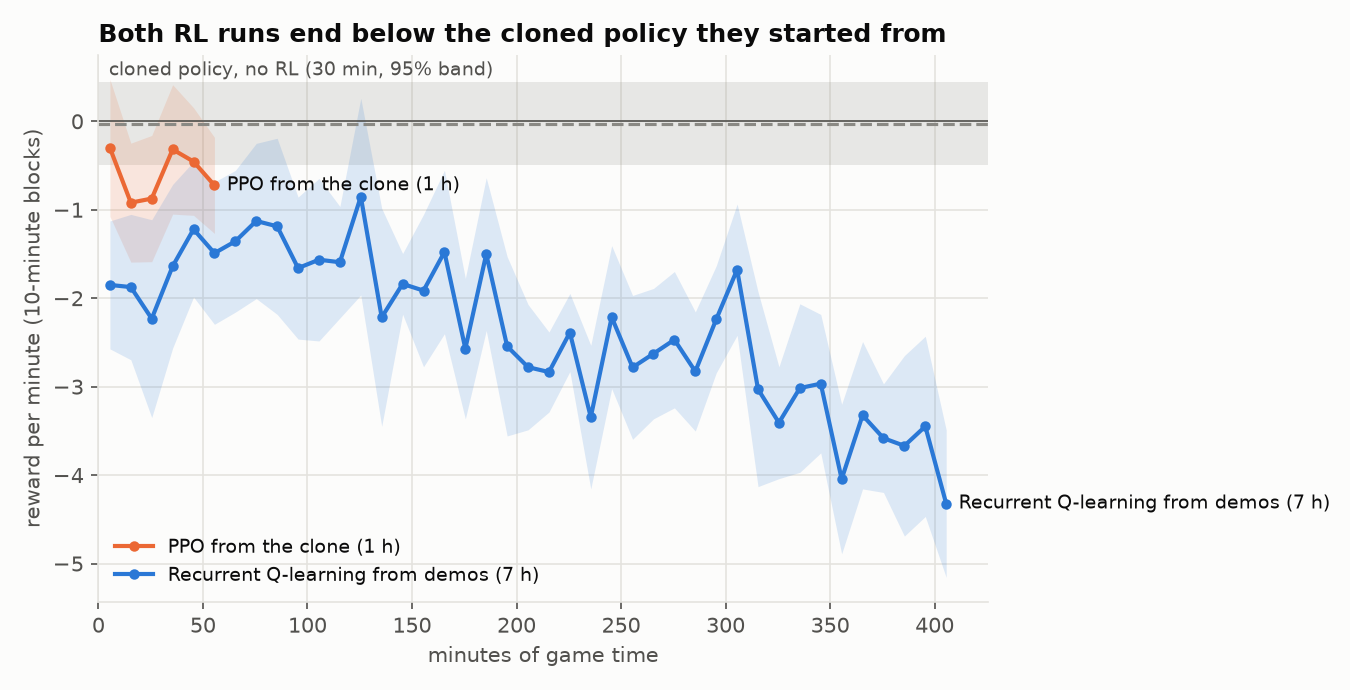
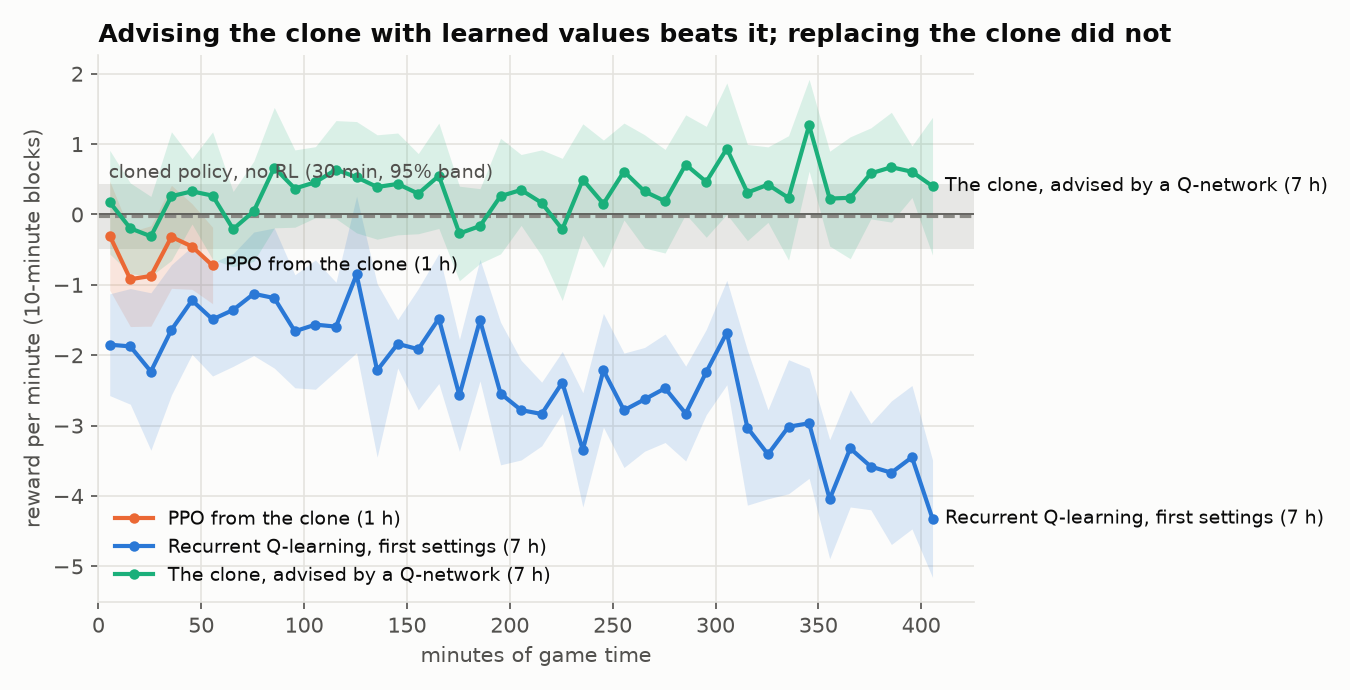
docs: the advised clone beats the clone (+0.38 against -0.11 reward per minute); a second night prepared
scripts/play.py plays the advised clone for evaluation. configs/experiments/advised_medium_night2.yaml continues from the night's Q-network with beta 15.

diff --git a/scripts/play.py b/scripts/play.py
@@ -184,6 +184,10 @@ def main(argv=None) -> int:
     p.add_argument("--regime", choices=("realtime", "stepped"), default="realtime")
     p.add_argument("--k", type=int, default=3)
     p.add_argument("--greedy", action="store_true", help="take the most likely action instead of sampling")
+    p.add_argument("--prior", type=Path, default=None,
+                   help="with a qnet.pt: sample from this cloned policy.zip, shifted by the Q-network's advantages")
+    p.add_argument("--beta", type=float, default=10.0, help="with --prior: strength of the shift")
+    p.add_argument("--adv-clip", type=float, default=0.1, help="with --prior: advantages clipped to this")
     p.add_argument("--detector", type=Path, default=DETECTOR)
     p.add_argument("--name", default=None, help="report name (default: policy folder, level and regime)")
     p.add_argument("--countdown", type=int, default=5)
@@ -213,6 +217,10 @@ def main(argv=None) -> int:
         from brawl.rdqn import Greedy
 
         greedy = Greedy(Path(args.policy), epsilon=0.0, seed=args.seed)
+        if args.prior:  # the clone, advised by this Q-network, as the live run played it
+            from brawl.rdqn import Advised
+
+            greedy = Advised(Path(args.policy), args.prior, args.beta, args.adv_clip, seed=args.seed)
     policy = None if args.policy in ("random", "scripted") or greedy else learn.load_policy(Path(args.policy), "cpu")
     perception = Perception(Yolo(args.detector, conf=0.05), step=args.k)
     screen = capture.Screen(timeout_s=0.05)

diff --git a/brawl/rdqn.py b/brawl/rdqn.py
@@ -111,6 +111,33 @@ class Greedy:
         return split(int(q[0, 0].argmax()))
 
 
+class Advised:
+    """The clone, its odds shifted by a Q-network's advantages: logits + beta * clip(Q - E_clone[Q]), as the
+    live run plays it (brawl/learn.py train_rdqn with ``prior``). Sampled; memory carried along."""
+
+    def __init__(self, qnet: Path, prior: Path, beta: float, clip: float, seed: int = 0) -> None:
+        import torch
+
+        from brawl.learn import load_policy
+
+        torch.manual_seed(seed)
+        self.torch, self.net, self.prior, self.h = torch, load(qnet)[0].eval(), load_policy(Path(prior)), None
+        self.beta, self.clip = beta, clip
+
+    def reset(self) -> None:
+        self.h = None
+
+    def __call__(self, obs: np.ndarray) -> tuple[int, int]:
+        torch = self.torch
+        with torch.no_grad():
+            x = torch.as_tensor(obs, dtype=torch.float32)
+            q, self.h = self.net(x[None, None], self.h)
+            d = self.prior.get_distribution(x[None]).distribution
+            logp = (d[0].logits[0][:, None] + d[1].logits[0][None, :]).reshape(-1)
+            adv = (q[0, 0] - (logp.exp() * q[0, 0]).sum()).clamp(-self.clip, self.clip)
+            return split(int(torch.distributions.Categorical(logits=logp + self.beta * adv).sample()))
+
+
 class Replay:
     """A stream of decisions sampled as sequences that never cross a cut (the start of a session, or
     a gap in the live run). Observations are kept in float16: 224 bytes a decision."""

diff --git a/scripts/plot_results.py b/scripts/plot_results.py
@@ -69,7 +69,7 @@ def clone_floor() -> tuple[float, float]:
 
 RUNS_SHOWN = [("PPO from the clone (1 h)", RUNS / "s1_ppo" / "realtime-bc" / "seed0" / "progress.csv", ORANGE),
               ("Recurrent Q-learning, first settings (7 h)", RUNS / "rdqn_medium" / "default" / "seed0" / "progress.csv", BLUE),
-              ("Recurrent Q-learning, tested settings", RUNS / "rdqn_medium_v2" / "default" / "seed0" / "progress.csv", AQUA)]
+              ("The clone, advised by a Q-network (7 h)", RUNS / "rdqn_medium_v3" / "default" / "seed0" / "progress.csv", AQUA)]
 
 
 def rl_runs(plt) -> Path:
@@ -89,7 +89,7 @@ def rl_runs(plt) -> Path:
         ax.annotate(label, (t[-1], m[-1]), xytext=(6, 0), textcoords="offset points", color=INK, fontsize=9, va="center")
     ax.set_xlabel("minutes of game time")
     ax.set_ylabel("reward per minute (10-minute blocks)")
-    ax.set_title("Both RL runs end below the cloned policy they started from")
+    ax.set_title("Advising the clone with learned values beats it; replacing the clone did not")
     ax.legend(loc="lower left", fontsize=9)
     ax.set_xlim(0, None)
     fig.tight_layout()

diff --git a/research/LAB_NOTEBOOK.md b/research/LAB_NOTEBOOK.md
@@ -1200,3 +1200,35 @@ live decision is written to trace/; the live run keeps best.pt, the weights play
 (results/rdqn/pretrain_v2.md: copying 0.171, right where the human changes action 0.232, buttons 21%
 against the human's 30%, its most used action 46% of decisions). scripts/plot_results.py draws every
 figure from the run files.
+
+## 2026-11-14/15: the greedy Q-network stands still; the advised clone beats the clone
+
+**Exploration and the greedy player.** In the 5-minute run with the second network, uniform random
+actions at 5% of decisions threw the weapon 18 times a minute (the human 7) and the agent was armed 47%
+of the time (the human 90%). With exploration off, the greedy network stood still: trained to rank the
+human's action first, its best action is the most common one, no button (70% of the human's
+decisions), and standing still leads to states where it stays best. The Q-network alone is the wrong
+player.
+
+**The advised clone** (configs/experiments/rdqn_medium_v3.yaml). The agent samples from the clone
+(medium_v4), its logits shifted by beta * clip(Q - E_clone[Q], 0.1); the Q-network evaluates the play
+it sees (sarsa: no max, no inflation), pretrained without the margin loss. Advantages on human play are
+small (median |A| 0.04, 90th percentile 0.12): beta 5 would have moved the clone's most likely action in
+2.7% of decisions, beta 10 moves it in 5%, with an action's odds changed at most 2.7-fold. The first 30
+minutes are the pure clone, the run's own baseline; beta then ramps over 30 minutes.
+
+**Night of 2026-11-14** (7 h, results/rdqn_medium_v3/summary.md, results/figures/rl_runs.png):
+
+| | Reward per minute | Stocks taken / lost per minute | Falls per minute | Damage dealt / taken per minute |
+|---|---|---|---|---|
+| Clone only (first 30 min) | -0.11 +- 0.19 | 0.53 / 0.57 | 0.27 | 108 / 116 |
+| Advised (beta 10, 357 min) | +0.38 +- 0.06 | 0.66 / 0.57 | 0.15 | 134 / 104 |
+
+Difference +0.49, 2.5 standard errors; Mann-Whitney over minutes p = 0.016. The clone measured on
+2026-11-12: -0.03 +- 0.24. Stocks 270 - 236 over the night: the first run that takes more stocks than it
+loses. By part of the night: +0.32, +0.28, +0.56 (last two hours). The values stayed honest (gap on live
+play between -0.05 and +0.14, no trend); no rollback; 0.29% of decisions over the time budget.
+
+Caveats: one seed; the in-run baseline is 30 minutes (standard error 0.19). A paired evaluation of the
+frozen advised policy against the clone in one session is the next measurement. scripts/play.py now
+plays the advised clone (--prior, --beta, --adv-clip).

diff --git a/results/rdqn_medium_v3/summary.md b/results/rdqn_medium_v3/summary.md
@@ -1,0 +1,56 @@
+# rdqn_medium_v3: summary
+
+2026-11-15 07:03. Reward per minute of game time in blocks of 10 rollouts (mean ± standard error over the block's rollouts). scripts/analyze.py.
+
+## default / seed0
+
+416 rollouts, 416 minutes of game time. Stocks 270 - 236; damage 54654 / 43784.
+
+| Block (minutes) | Reward per minute | Net stocks per minute |
+|---|---|---|
+| 0-10 | +0.18 ± 0.38 | +0.10 |
+| 10-20 | -0.20 ± 0.33 | -0.10 |
+| 20-30 | -0.31 ± 0.29 | -0.10 |
+| 30-40 | +0.26 ± 0.47 | +0.10 |
+| 40-50 | +0.33 ± 0.24 | +0.10 |
+| 50-60 | +0.27 ± 0.46 | +0.10 |
+| 60-70 | -0.21 ± 0.27 | -0.30 |
+| 70-80 | +0.04 ± 0.36 | +0.10 |
+| 80-90 | +0.67 ± 0.44 | +0.20 |
+| 90-100 | +0.37 ± 0.28 | +0.10 |
+| 100-110 | +0.46 ± 0.26 | +0.10 |
+| 110-120 | +0.64 ± 0.36 | +0.20 |
+| 120-130 | +0.53 ± 0.40 | +0.10 |
+| 130-140 | +0.39 ± 0.38 | +0.10 |
+| 140-150 | +0.43 ± 0.37 | +0.20 |
+| 150-160 | +0.30 ± 0.29 | +0.00 |
+| 160-170 | +0.55 ± 0.38 | +0.30 |
+| 170-180 | -0.27 ± 0.34 | -0.20 |
+| 180-190 | -0.16 ± 0.27 | -0.20 |
+| 190-200 | +0.26 ± 0.42 | +0.00 |
+| 200-210 | +0.35 ± 0.26 | +0.20 |
+| 210-220 | +0.17 ± 0.38 | -0.10 |
+| 220-230 | -0.21 ± 0.52 | -0.20 |
+| 230-240 | +0.50 ± 0.40 | +0.20 |
+| 240-250 | +0.15 ± 0.46 | +0.00 |
+| 250-260 | +0.61 ± 0.35 | +0.10 |
+| 260-270 | +0.33 ± 0.41 | +0.00 |
+| 270-280 | +0.19 ± 0.38 | +0.10 |
+| 280-290 | +0.71 ± 0.36 | +0.10 |
+| 290-300 | +0.46 ± 0.40 | +0.30 |
+| 300-310 | +0.94 ± 0.48 | +0.30 |
+| 310-320 | +0.31 ± 0.35 | +0.10 |
+| 320-330 | +0.42 ± 0.27 | +0.20 |
+| 330-340 | +0.24 ± 0.45 | +0.00 |
+| 340-350 | +1.27 ± 0.33 | +0.40 |
+| 350-360 | +0.23 ± 0.34 | +0.00 |
+| 360-370 | +0.24 ± 0.44 | +0.00 |
+| 370-380 | +0.58 ± 0.33 | +0.20 |
+| 380-390 | +0.67 ± 0.40 | +0.30 |
+| 390-400 | +0.61 ± 0.19 | +0.20 |
+| 400-410 | +0.40 ± 0.50 | +0.00 |
+
+- Change: +0.23 ± 0.62 from the first block to the last: within 2 standard errors, so not distinguishable from no change.
+- Updates: 0.00 s each (median), 0.00% of the run; during them 0 damage taken and 0 stocks lost.
+- Decisions over the time budget: 0.29%; pauses for lost focus: 0.
+

diff --git a/results/rdqn_medium/summary.md b/results/rdqn_medium/summary.md
@@ -1,0 +1,56 @@
+# rdqn_medium: summary
+
+2026-11-14 09:05. Reward per minute of game time in blocks of 10 rollouts (mean ± standard error over the block's rollouts). scripts/analyze.py.
+
+## default / seed0 (stopped before its end)
+
+416 rollouts, 416 minutes of game time. Stocks 102 - 902; damage 19373 / 38502.
+
+| Block (minutes) | Reward per minute | Net stocks per minute |
+|---|---|---|
+| 0-10 | -1.85 ± 0.37 | -1.30 |
+| 10-20 | -1.87 ± 0.42 | -1.40 |
+| 20-30 | -2.23 ± 0.57 | -1.60 |
+| 30-40 | -1.64 ± 0.47 | -1.00 |
+| 40-50 | -1.22 ± 0.39 | -0.90 |
+| 50-60 | -1.49 ± 0.41 | -1.00 |
+| 60-70 | -1.36 ± 0.41 | -0.80 |
+| 70-80 | -1.13 ± 0.45 | -0.80 |
+| 80-90 | -1.19 ± 0.51 | -0.70 |
+| 90-100 | -1.66 ± 0.41 | -1.20 |
+| 100-110 | -1.56 ± 0.47 | -1.30 |
+| 110-120 | -1.59 ± 0.32 | -1.10 |
+| 120-130 | -0.85 ± 0.57 | -0.90 |
+| 130-140 | -2.22 ± 0.63 | -1.80 |
+| 140-150 | -1.84 ± 0.18 | -1.40 |
+| 150-160 | -1.91 ± 0.44 | -1.60 |
+| 160-170 | -1.48 ± 0.47 | -1.10 |
+| 170-180 | -2.57 ± 0.41 | -2.10 |
+| 180-190 | -1.50 ± 0.44 | -1.20 |
+| 190-200 | -2.54 ± 0.52 | -2.10 |
+| 200-210 | -2.78 ± 0.36 | -2.40 |
+| 210-220 | -2.83 ± 0.23 | -2.30 |
+| 220-230 | -2.39 ± 0.23 | -2.00 |
+| 230-240 | -3.34 ± 0.41 | -2.90 |
+| 240-250 | -2.21 ± 0.41 | -1.60 |
+| 250-260 | -2.78 ± 0.41 | -2.20 |
+| 260-270 | -2.63 ± 0.38 | -2.20 |
+| 270-280 | -2.47 ± 0.39 | -1.90 |
+| 280-290 | -2.83 ± 0.34 | -2.00 |
+| 290-300 | -2.24 ± 0.31 | -1.80 |
+| 300-310 | -1.68 ± 0.38 | -1.20 |
+| 310-320 | -3.03 ± 0.56 | -2.50 |
+| 320-330 | -3.41 ± 0.32 | -2.80 |
+| 330-340 | -3.02 ± 0.49 | -2.70 |
+| 340-350 | -2.97 ± 0.40 | -2.30 |
+| 350-360 | -4.04 ± 0.43 | -3.40 |
+| 360-370 | -3.32 ± 0.42 | -3.20 |
+| 370-380 | -3.58 ± 0.31 | -3.00 |
+| 380-390 | -3.67 ± 0.52 | -3.20 |
+| 390-400 | -3.45 ± 0.52 | -3.10 |
+| 400-410 | -4.32 ± 0.43 | -3.90 |
+
+- Change: -2.47 ± 0.56 from the first block to the last: a decline beyond 2 standard errors.
+- Updates: 0.00 s each (median), 0.00% of the run; during them 0 damage taken and 0 stocks lost.
+- Decisions over the time budget: 0.08%; pauses for lost focus: 0.
+

diff --git a/research/CHECKLIST.md b/research/CHECKLIST.md
@@ -16,14 +16,11 @@ pause-and-rewind oracle a learner can close.
 Nothing is trained on a part until that part's gate passes. A wrong input fails every agent
 built on it, and no RL result can show where the fault was.
 
-## Your next steps (2026-11-14)
+## Your next steps (2026-11-15)
 
 Run everything in the `brawl312` environment. Camera mode: Fixed. You as Wu Shang, bot Mordex on Medium.
-
-1. 5-minute check of the new starting network:
-   `python scripts/train.py --config configs/experiments/smoke_rdqn.yaml --set train.init=runs/rdqn/pretrain_v2/qnet.pt train.gamma=0.99 train.rdqn.n_step=20 train.rdqn.target_every=500 train.rdqn.learning_rate=3.0e-5 --name smoke_v2`
-2. Overnight: `python scripts/train.py --config configs/experiments/rdqn_medium_v2.yaml --seed 0`
-3. In the morning: `python scripts/analyze.py rdqn_medium_v2` and `python scripts/plot_results.py`.
+Tonight, one line (about 7 hours): 30 min clone, 30 min last night's advised clone (frozen), then the
+second training night. See the lab notebook entry of 2026-11-15.
 
 ## Stage 0: gates (DESIGN section 9)
 

diff --git a/results/play/scripted_wu_shang_medium_realtime.md b/results/play/scripted_wu_shang_medium_realtime.md
@@ -1,0 +1,17 @@
+# Play: scripted_wu_shang_medium_realtime
+
+2026-11-13 13:13. Policy scripted (sampled), bot medium, realtime, k = 3, 1 x 60 min. 72005 decisions in 3600 s (20.0 per second; 3600 s of game time).
+
+| Measure | Value |
+|---|---|
+| Stocks taken - lost | 15 - 45 |
+| Virtual matches (first to 3 stocks) won - lost | 0 - 15 (0%) |
+| Damage dealt / taken | 2997 / 8797 |
+| Reward per minute of game time | -1.47 |
+| Decisions with a button | 13.9% |
+| Wu Shang / Mordex present | 97.5% / 99.2% |
+| Perception + policy per decision (ms): median / p95 / max | 29.8 / 38.9 / 124.4 (budget 50) |
+| of which policy (ms): median / p95 | 0.61 / 1.16 |
+| Decisions over the budget | 0.33% |
+| Frames whose keys were set late (realtime) | 93596 of 216015 |
+| Each part once per step (advance, grab, perceive, build) | {'advance': 72005, 'grab': 72006, 'perceive': 72006, 'build': 72006} for 72005 steps |

diff --git a/results/play/scripted_mordex_medium_realtime.md b/results/play/scripted_mordex_medium_realtime.md
@@ -1,0 +1,17 @@
+# Play: scripted_mordex_medium_realtime
+
+2026-11-13 12:09. Policy scripted (sampled), bot medium, realtime, k = 3, 1 x 60 min. 72006 decisions in 3600 s (20.0 per second; 3600 s of game time).
+
+| Measure | Value |
+|---|---|
+| Stocks taken - lost | 46 - 16 |
+| Virtual matches (first to 3 stocks) won - lost | 15 - 0 (100%) |
+| Damage dealt / taken | 9674 / 2754 |
+| Reward per minute of game time | 1.65 |
+| Decisions with a button | 14.5% |
+| Wu Shang / Mordex present | 99.1% / 97.0% |
+| Perception + policy per decision (ms): median / p95 / max | 28.7 / 37.0 / 147.1 (budget 50) |
+| of which policy (ms): median / p95 | 0.57 / 1.07 |
+| Decisions over the budget | 0.27% |
+| Frames whose keys were set late (realtime) | 87316 of 216018 |
+| Each part once per step (advance, grab, perceive, build) | {'advance': 72006, 'grab': 72007, 'perceive': 72007, 'build': 72007} for 72006 steps |
